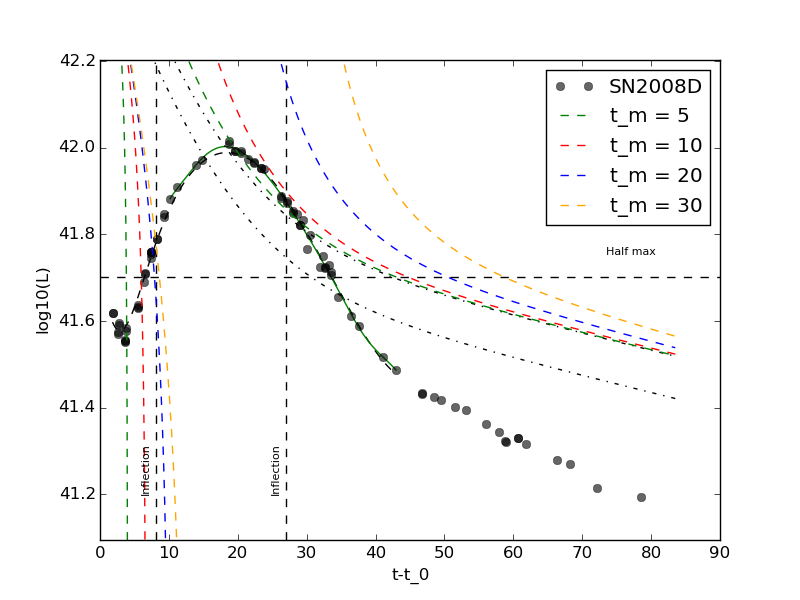
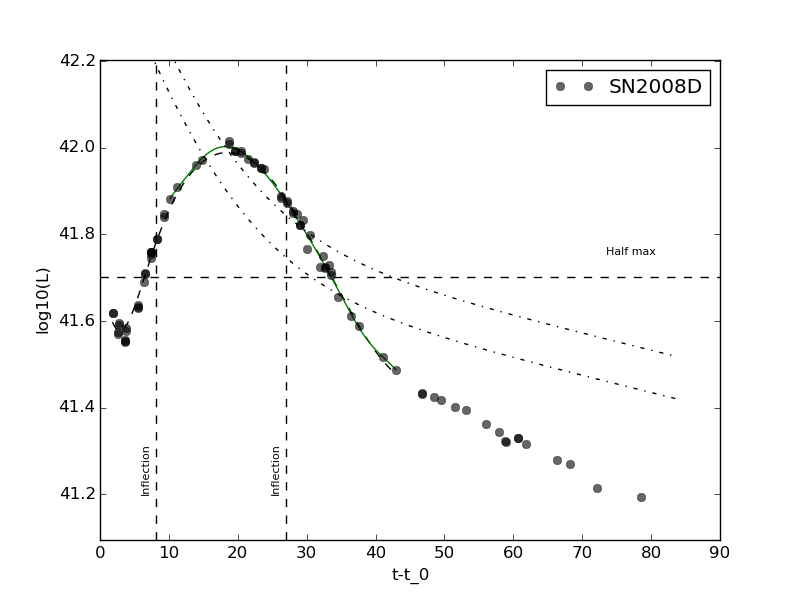
Update

diff --git a/Stripped/get_Lpeak.py b/Stripped/get_Lpeak.py
@@ -10,12 +10,12 @@ sn_formats = ['S15','S10','S20','f8','f8','f8','f8','f8','f8','f8','f8','f8']
 SN_DATA = np.genfromtxt('sn_data.dat',dtype={'names':sn_labels,'formats':sn_formats})
 
 compare_nis = False
-get_peak = False
+get_peak = True
 plot = True
 show = False
 Khatami = False
 check_t_0 = False
-check_type = True
+check_type = False
 
 M_ni = lambda t_r,L_bol : L_bol/Q_t(t_r,1)
 
@@ -64,7 +64,7 @@ def weird_Ni_der(t,Mni,t_m=1.0):
 band_string = ("BVRIJHK","BVRIJHKs")
 band_string = ("BVRI","BVRcI")
 
-inflection = True
+inflection = False
 pl.close("all")
 
 if get_peak:
